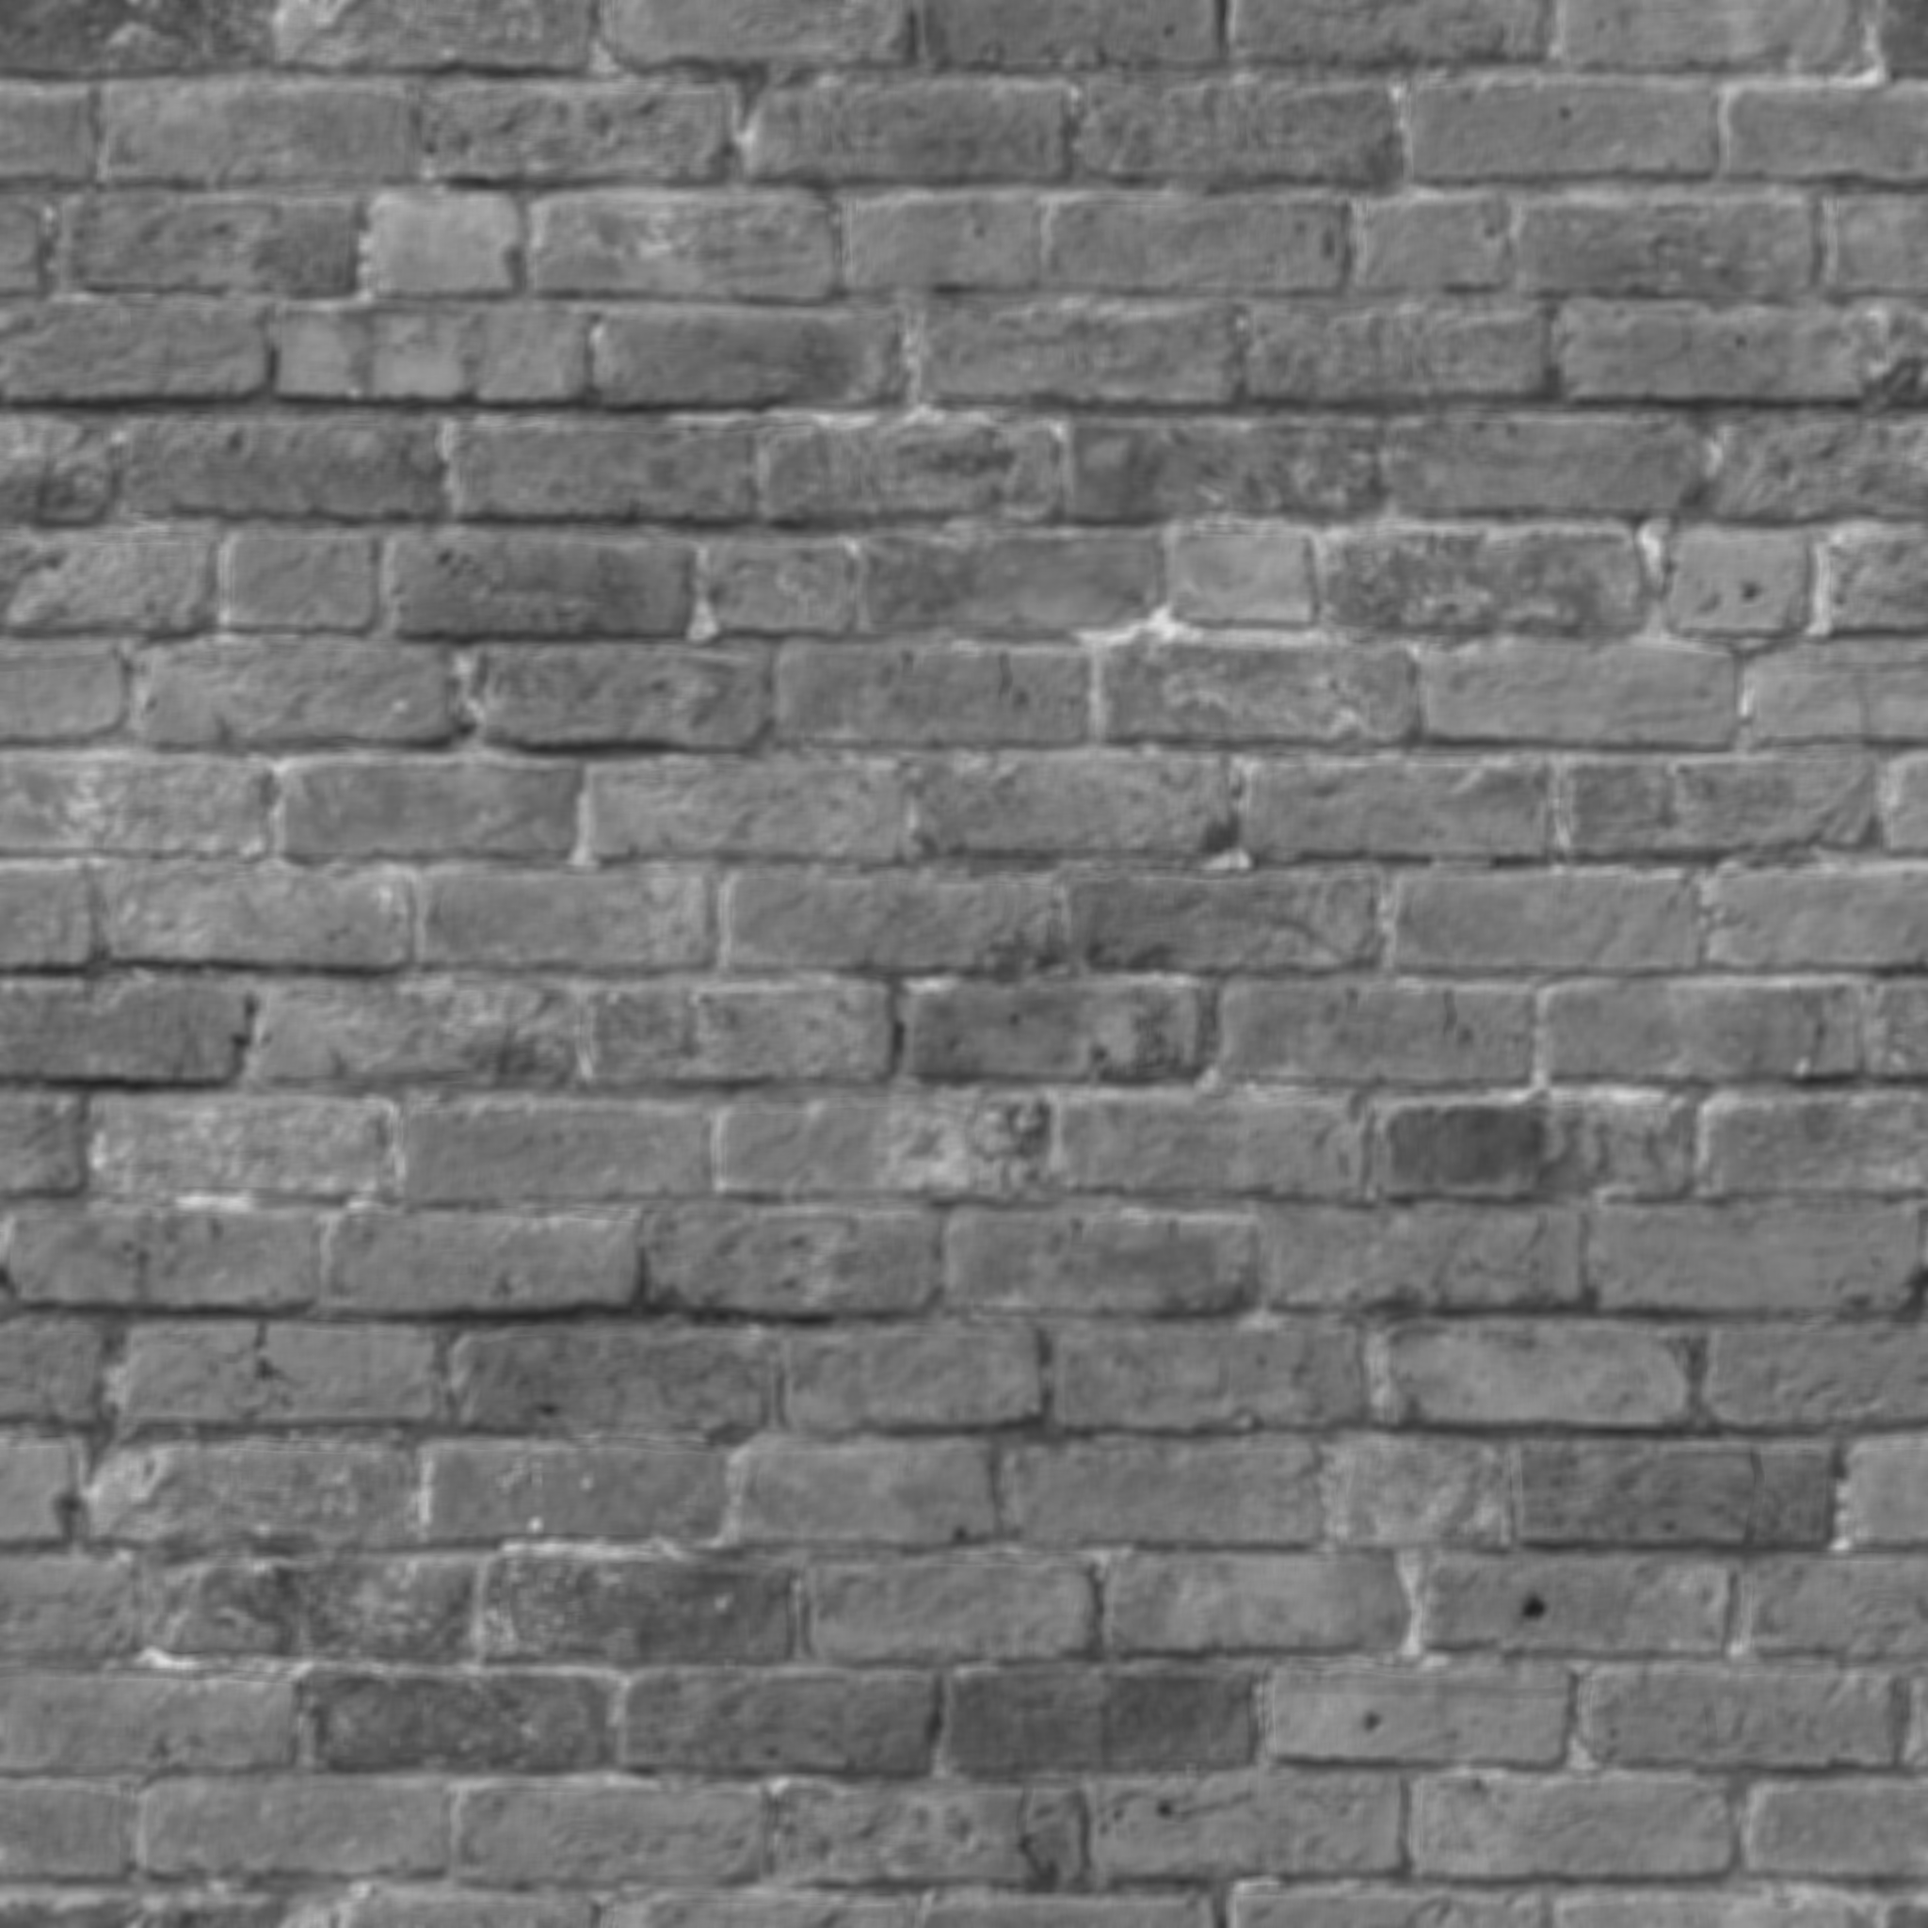
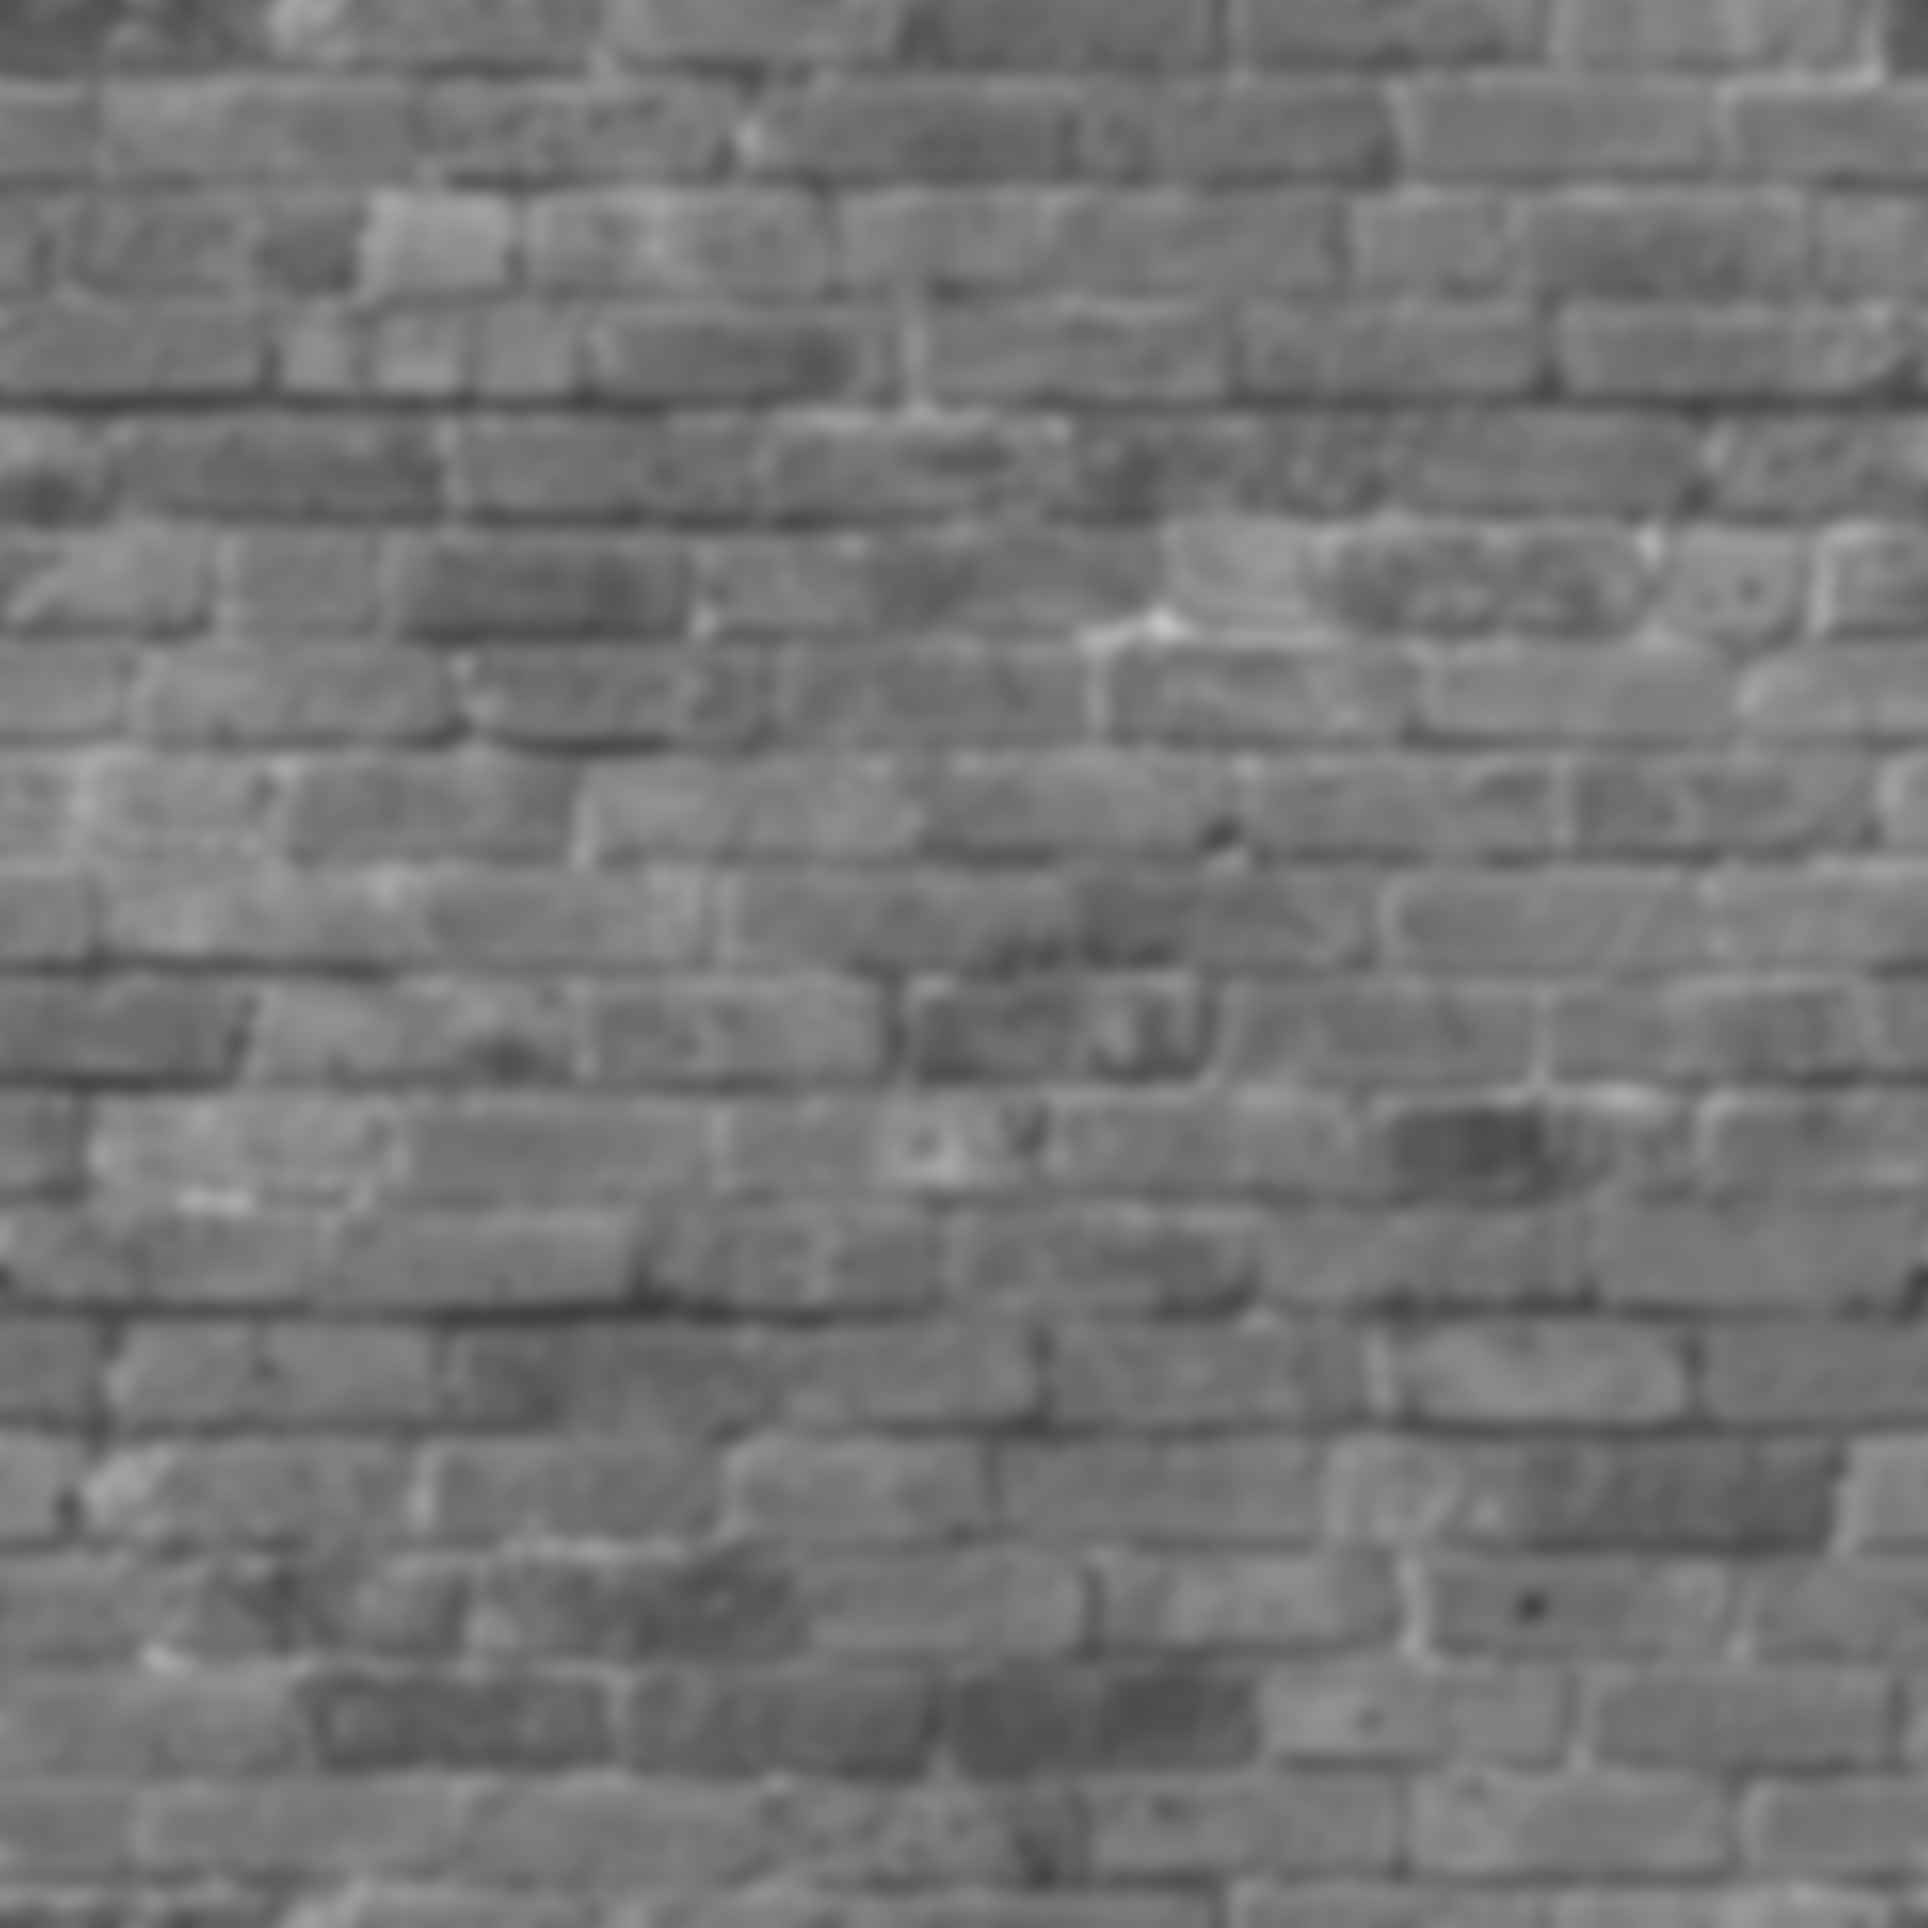
It kinda works...

diff --git a/Game/src/de/NormalMapGenerator/core/Main.java b/Game/src/de/NormalMapGenerator/core/Main.java
@@ -70,13 +70,13 @@ public class Main {
 		}
 		
 		//Temporrary Box Blur
-		int maxDistanceforSampling =5;
-		double[][] gaussWeights =new double[maxDistanceforSampling*2+1][maxDistanceforSampling*2+1];
+		int maxDistanceforSampling =20;
+		/*double[][] gaussWeights =new double[maxDistanceforSampling*2+1][maxDistanceforSampling*2+1];
 		for(int i = 0;i<(maxDistanceforSampling*2+1)*(maxDistanceforSampling*2+1);i++){
 			gaussWeights[i/(maxDistanceforSampling*2+1)][i%(maxDistanceforSampling*2+1)] =1.0/((maxDistanceforSampling*2+1)*(maxDistanceforSampling*2+1));
-		}
+		}*/
 				
-		
+		double[][] gaussWeights = gaussianKernel(maxDistanceforSampling,100);
 		
 		
 		int percentage = 0;	
@@ -153,7 +153,7 @@ public class Main {
 			e.printStackTrace();
 		}
 	}
-	private double[][] gaussianKernel(int maxDistance,double uglyGreekSignSquared){
+	public static double[][] gaussianKernel(int maxDistance,double uglyGreekSignSquared){
 		int size = 1 + 2*maxDistance;
 		int mid = 1 + maxDistance;
 		double[][]gk = new double[size][size];
@@ -166,18 +166,20 @@ public class Main {
 				sum +=gk[x][y];
 			}
 		}
-		double normalizeFactor = sum / (size * size);
+		double normalizeFactor =sum;
 		//Normalize it!
+		sum = 0;
 		for(int i = 0; i<size * size;i++){
-			//gk[i/size][i%size]/=normalizeFactor ;
+			gk[i/size][i%size]/=normalizeFactor ;
+			sum+=gk[i/size][i%size];
 		}
+		assert Math.abs(sum -1 )<0.000005;
 		return gk;
 	}
 	
-	private double gaussianFunction(double xDistance, double yDistance, double uglyGreekSignSquared){
-		double semiConstant =1/(2 * Math.PI *uglyGreekSignSquared);
-		double exponentTerm = Math.pow(Math.E, -1*(xDistance*xDistance+yDistance*yDistance)/(2*uglyGreekSignSquared));
-		return semiConstant * exponentTerm;
+	public static double gaussianFunction(double xDistance, double yDistance, double uglyGreekSignSquared){
+	
+		return (1.0/(2.0 * Math.PI * uglyGreekSignSquared)) * Math.pow(Math.E, -1.0 * (Math.pow(xDistance, 2)+Math.pow(yDistance, 2))/(2.0 * uglyGreekSignSquared));
 	}
 
 }

diff --git a/Game/src/de/NormalMapGenerator/core/TestGaussian.java b/Game/src/de/NormalMapGenerator/core/TestGaussian.java
@@ -1,0 +1,15 @@
+package de.NormalMapGenerator.core;
+
+import org.junit.Test;
+
+public class TestGaussian {
+	@Test
+ public void testGaussianFunction(){
+	System.out.println( Main.gaussianFunction(0, 0, 0.84089642));
+ }
+@Test
+public void testGaussianKernel(){
+	double[][] gk = Main.gaussianKernel(3,   0.84089642);
+	System.out.println(gk);
+}
+}
